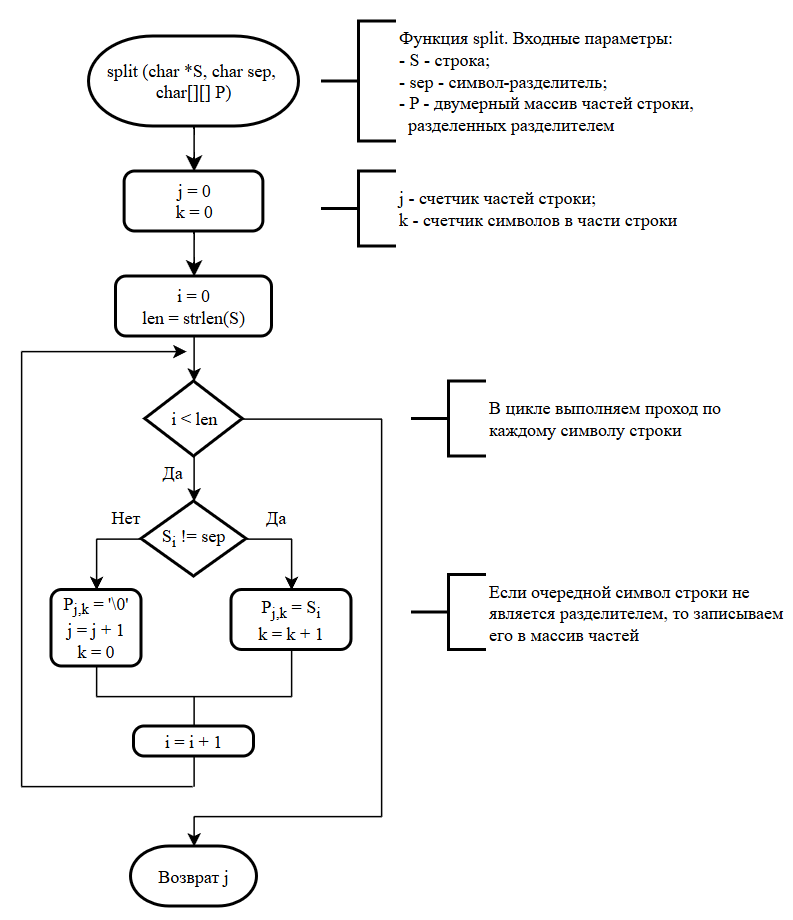
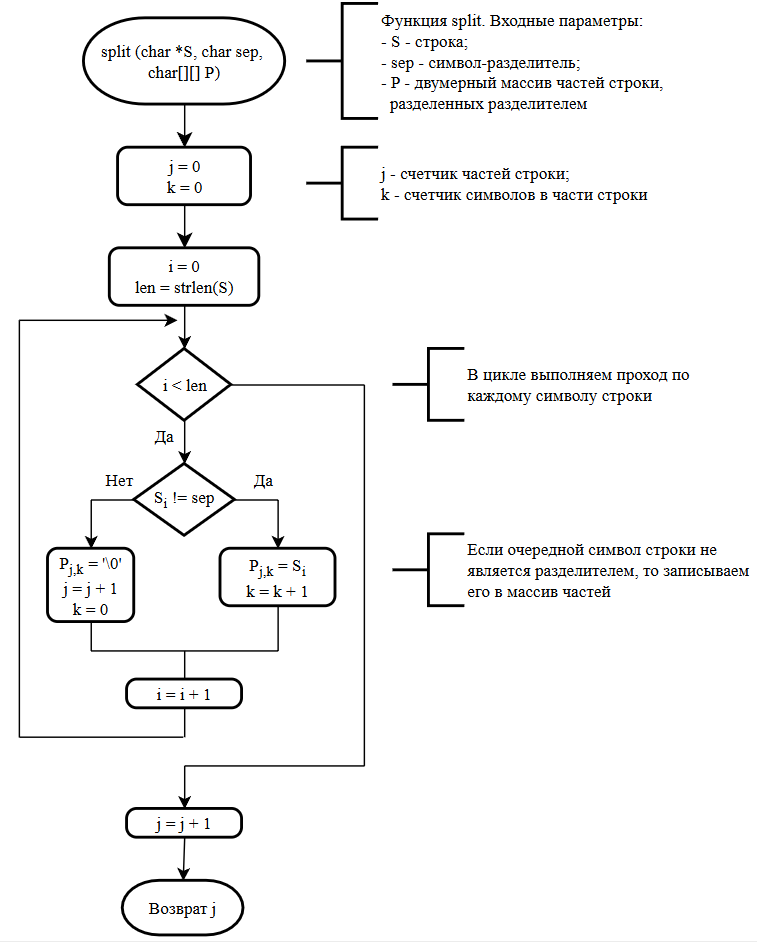
Add next part of theory for course work

diff --git a/chapters/theory-course-work.md b/chapters/theory-course-work.md
@@ -1170,3 +1170,159 @@ void PlaylistPrintTable() {
     TrackPrintTableFooter();
 }
 ```
+
+### Выполнение расчетов
+Например, пусть для моей предметной области будет такая задача:
+
+```txt
+Необходимо вычислить среднюю и суммарную продолжительность музыкальных композиций для каждого жанра.
+```
+
+Перед выполнением расчетов необходимо выполнить сортировку записей, т.к. реализовать алгоритм вычисления суммарных или средних показателей гораздо проще для отсортированного набора записей. Но при этом изменять массив с исходными записями категорически нельзя! Т.е. необходима копия массива записей, которая будет отсортирована.
+
+Но копировать весь набор записей весьма неэффективно, т.к. это ведет к затратам по памяти. Вместо полного копирования записей необходимо копировать только лишь ссылки на них. Для этого нам необходима вспомогательная структура. Создадим ее в заголовочном файле:
+
+```C
+/**
+ * Коллекция для хранения отсортированных музыкальных композиций
+ * @param count Количество композиций
+ * @param elements Массив указателей на структуру, описывающую
+ * композицию
+ */
+typedef struct {
+    int count;
+    Track* elements[PLAYLIST_SIZE];
+} PlaylistSorted;
+```
+
+Обратите внимание, что массив `elements` имеет тип не `Track` (структура), а тип `Track*` (указатель на структуру). Т.е. этот массив хранит только лишь ссылки на записи, но не сами записи. И соответственно, сортировать мы будем именно ссылки, а не сами записи. Глобальная коллекция при этом не изменится.
+
+Теперь в файле реализации функций заголовочного файла реализуйте функцию, которая сортирует ссылки на записи по необходимому столбцу (в моем случае это жанр). В качестве алгоритма сортировки можно использовать любой алгоритм. Ниже представлен пример сортировки музыкальных композиций по жанру в алфавитном порядке:
+
+```C
+/**
+ * Сортировка плейлиста по жанру (в алфавитном порядке)
+ * @param sorted Указатель на структуру PlaylistSorted
+ */
+void PlaylistSortByGenre(PlaylistSorted *sorted) {
+    // Записываем указатели на экземпляры структуры Track из
+    // глобального плейлиста
+    for (int i = 0; i < globalPlaylist.count; i++) {
+        sorted->elements[i] = &globalPlaylist.elements[i];
+    }
+    sorted->count = globalPlaylist.count;
+
+    Track *temp;
+
+    char genre_prev[GENRE_STR_SIZE];
+    char genre_next[GENRE_STR_SIZE];
+
+    int n = sorted->count;
+
+    // Сортировка пузырьком (сортируется массив в экземпляре структуры
+    // PlaylistSorted. Глобальный плейлист остается без изменений)
+    for (int i = 0; i < n - 1; i++) {
+        for (int j = 0; j < n - i - 1; j++) {
+            GenreToString(&sorted->elements[j]->genre, genre_prev);
+            GenreToString(&sorted->elements[j + 1]->genre, genre_next);
+
+            // Сравниваем жанры в строковом виде
+            if (strcmp(genre_prev, genre_next) > 0) {
+                // Если жанры не в алфавитном порядке, то меняем 
+                // указатели на музыкальные композиции местами
+                temp = sorted->elements[j];
+                sorted->elements[j] = sorted->elements[j + 1];
+                sorted->elements[j + 1] = temp;
+            }
+        }
+    }
+}
+```
+
+Далее необходимо реализовать структуры, в которых будет хранится статистика по каждому жанру. Как и обычно, создаем две структуры: одна для хранения статиститки по конкретному жанру, другая - структура-коллекция:
+
+```C
+/**
+ * Статистика по конкретному жанру
+ * @param genre Жанр
+ * @param tracksCount Количество композиций этого жанра
+ * @param summaryDuration Общая длительность (в секундах)
+ * @param meanDuration Средняя длительность (в секундах)
+ */
+typedef struct {
+    Genre genre;
+    int tracksCount;
+    int summaryDuration;
+    int meanDuration;
+} GenreStatistics;
+
+/**
+ * Статистика музыкальных композиций по жанрам
+ * @param count Количество жанров
+ * @param elements Массив объектов структур, описывающих жанр
+ */
+typedef struct {
+    int count;
+    GenreStatistics elements[STATISTICS_SIZE];
+} Statistics;
+```
+
+Теперь мы можем выполнить расчет статистики по каждому жанру. Алгоритм очень простой:
+1. Берем первую запись и выполняем расчеты по ее жанру (в моем случае: увеличиваем счетчик количества композиций данного жанра, суммируем длительность).
+2. Далее в цикле, начиная со 2-й записи, проверяем совпадает ли жанр с предыдущей записью. Если жанр НЕ совпадает, то выполняем остаточные расчеты (в моем случае это расчет средней длительности) и переходим к следующему жанру (2-й записи). Выполняем расчеты для текущего жанра.
+3. После выполнения цикла выполняем расчеты для последней записи (расчет среднего).
+
+Пример кода представлен ниже:
+
+```C
+void StatisticsCalc() {
+    // Сбрасываем статистику
+    StatisticsReset();
+    int stat_count = 0;
+    
+    // Сортируем плейлист по жанру
+    PlaylistSorted sorted;
+    PlaylistSortByGenre(&sorted);
+
+    // Берем первую музыкальную композицию и записываем статистику
+    // по ее жанру
+    Track *track = sorted.elements[0];
+    // Создаем указатель на элемент статистики (для удобства)
+    GenreStatistics *stat_element = &globalStatistics.elements[stat_count];
+
+    stat_element->genre = track->genre;
+    stat_element->tracksCount++;
+    // Здесь вызываем функцию, которая преобразует экземпляр структруры
+    // Duration в int (секунды)
+    stat_element->summaryDuration += DurationToSeconds(&track->duration);
+
+    // И затем начинаем со следующей композиции
+    for (int i = 1; i < sorted.count; i++) {
+        track = sorted.elements[i];
+
+        // Если жанр следующей композиции отличаются от текущей,
+        // то выполняем расчеты для текущего жанра и затем переходим
+        // на следующий
+        if (track->genre != stat_element->genre) {
+            stat_element->meanDuration = stat_element->summaryDuration / stat_element->tracksCount;
+            stat_element = &globalStatistics.elements[++stat_count];
+            stat_element->genre = track->genre;
+        }
+
+        // Выполняем расчет для текущего жанра
+        stat_element->tracksCount++;
+        stat_element->summaryDuration += DurationToSeconds(&track->duration);
+    }
+
+    // Выполняем расчет для последнего жанра
+    stat_element->meanDuration = stat_element->summaryDuration / stat_element->tracksCount;
+    // Обновляем
+    globalStatistics.count = ++stat_count;
+}
+```
+
+Теперь Вам остается только лишь реализовать функции для вывода результатов расчетов (а именно функция для вывода содержимого экземпляра структуры `Statistics`) в табличном виде (и дополнительно в виде столбчатой диаграммы в консоли, если данные позволяют), а также для сохранения результатов в *csv*-файл (для этого необходимо реализовать функцию преобразования экземпляра структуры `GenreStatistics` в строку *csv*-формата).
+
+*Рекомендую перечитать эту теорию еще раз и выписать себе последовательность действий. Также очень важно отдельно выписать какие функции необходимы и что они должны делать. При правильной организации функций Ваша программа будет представлять собой набор блоков, из которых собирается полноценная программа.*
+
+Далее здесь будет описана структура пояснительной записки.
